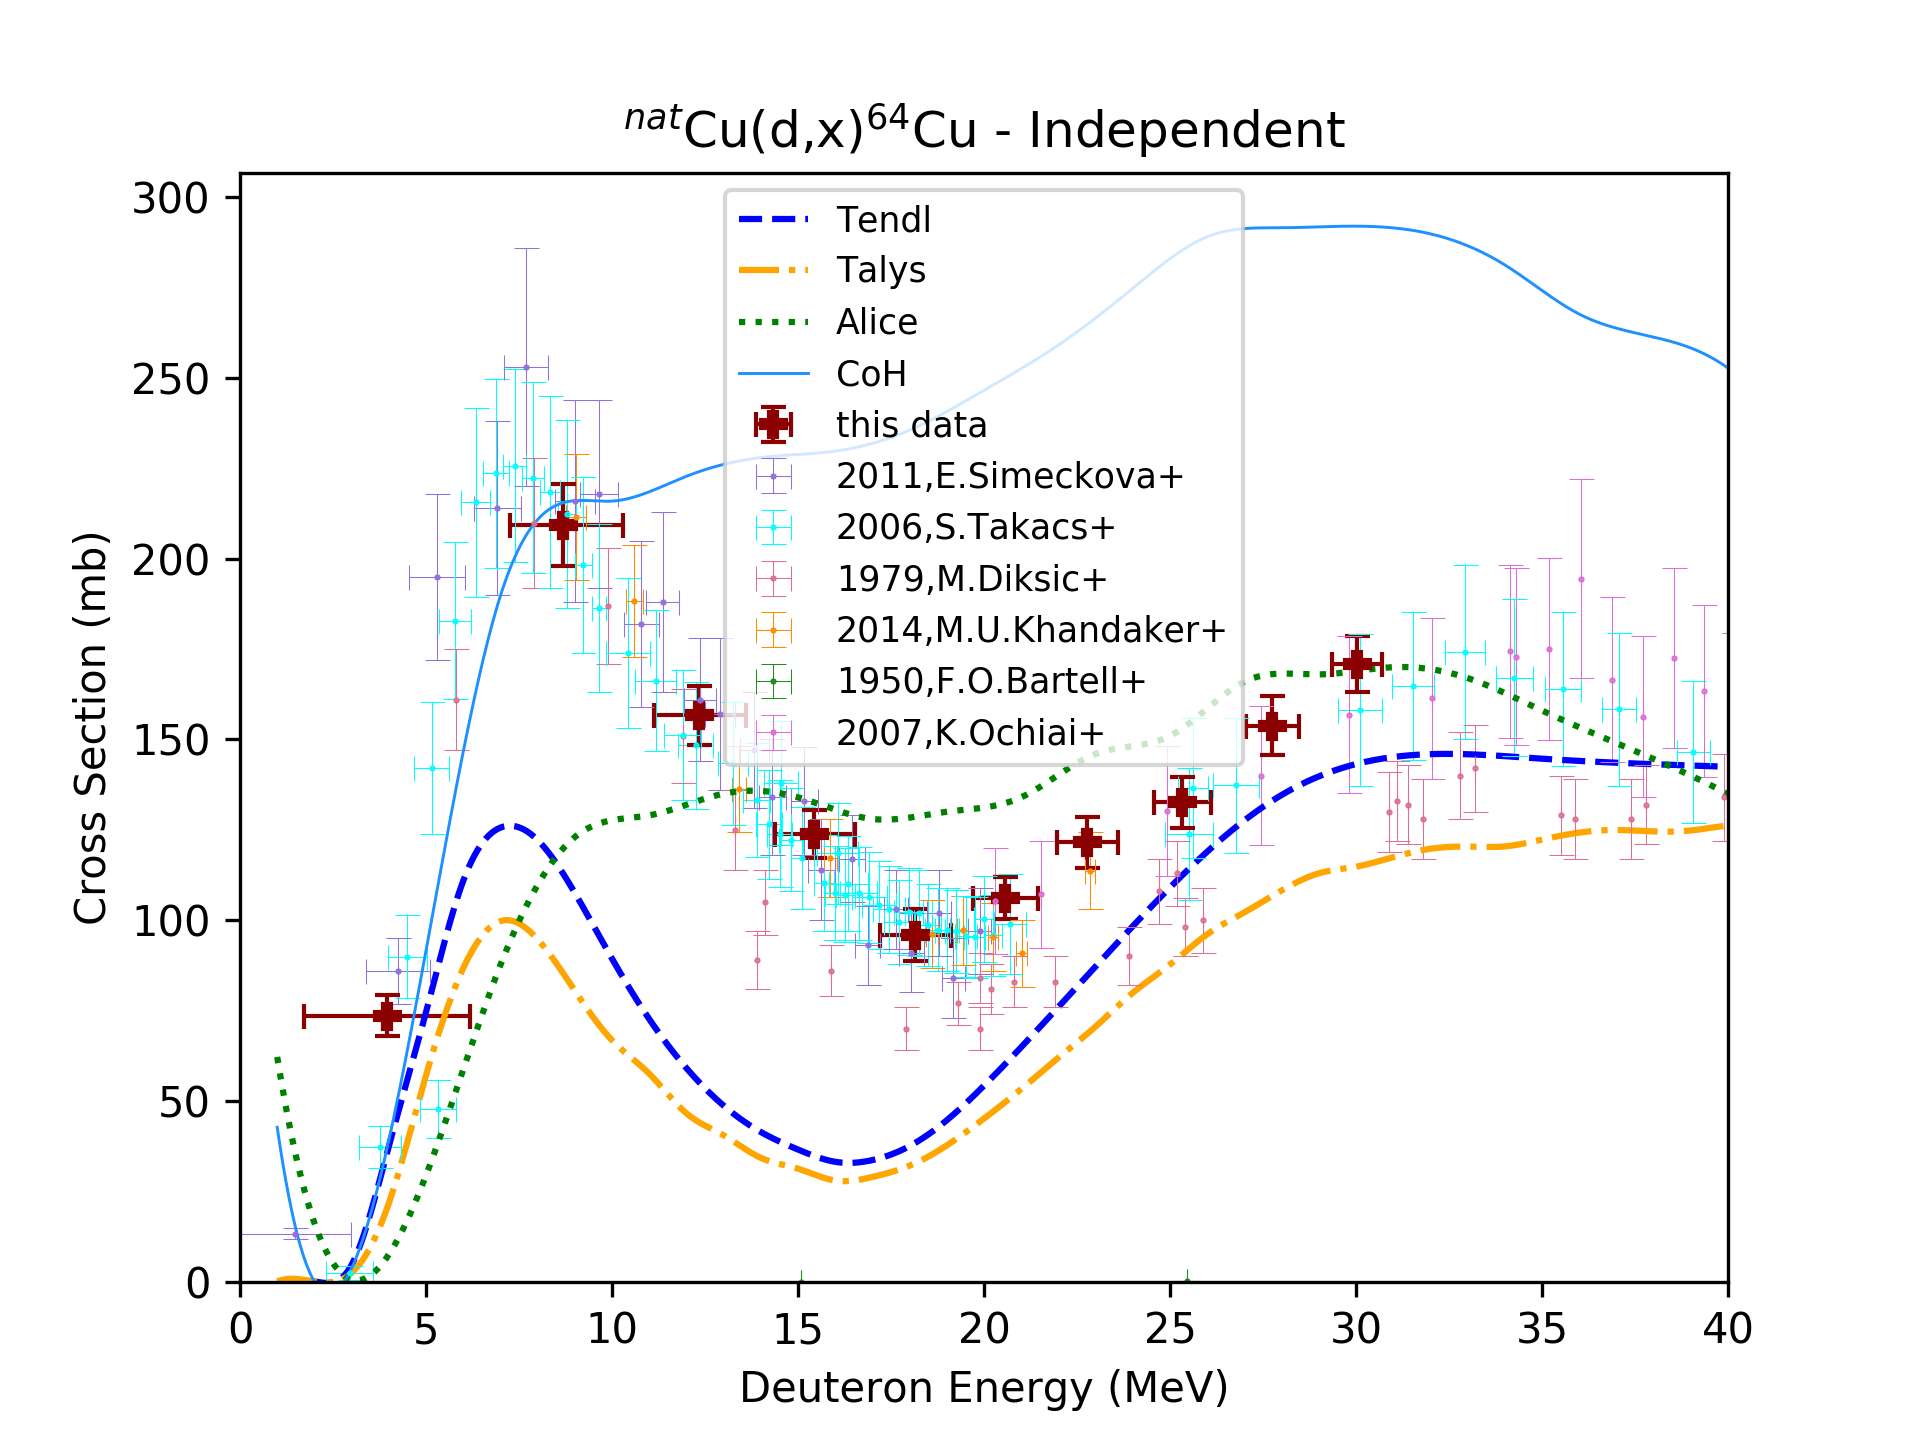
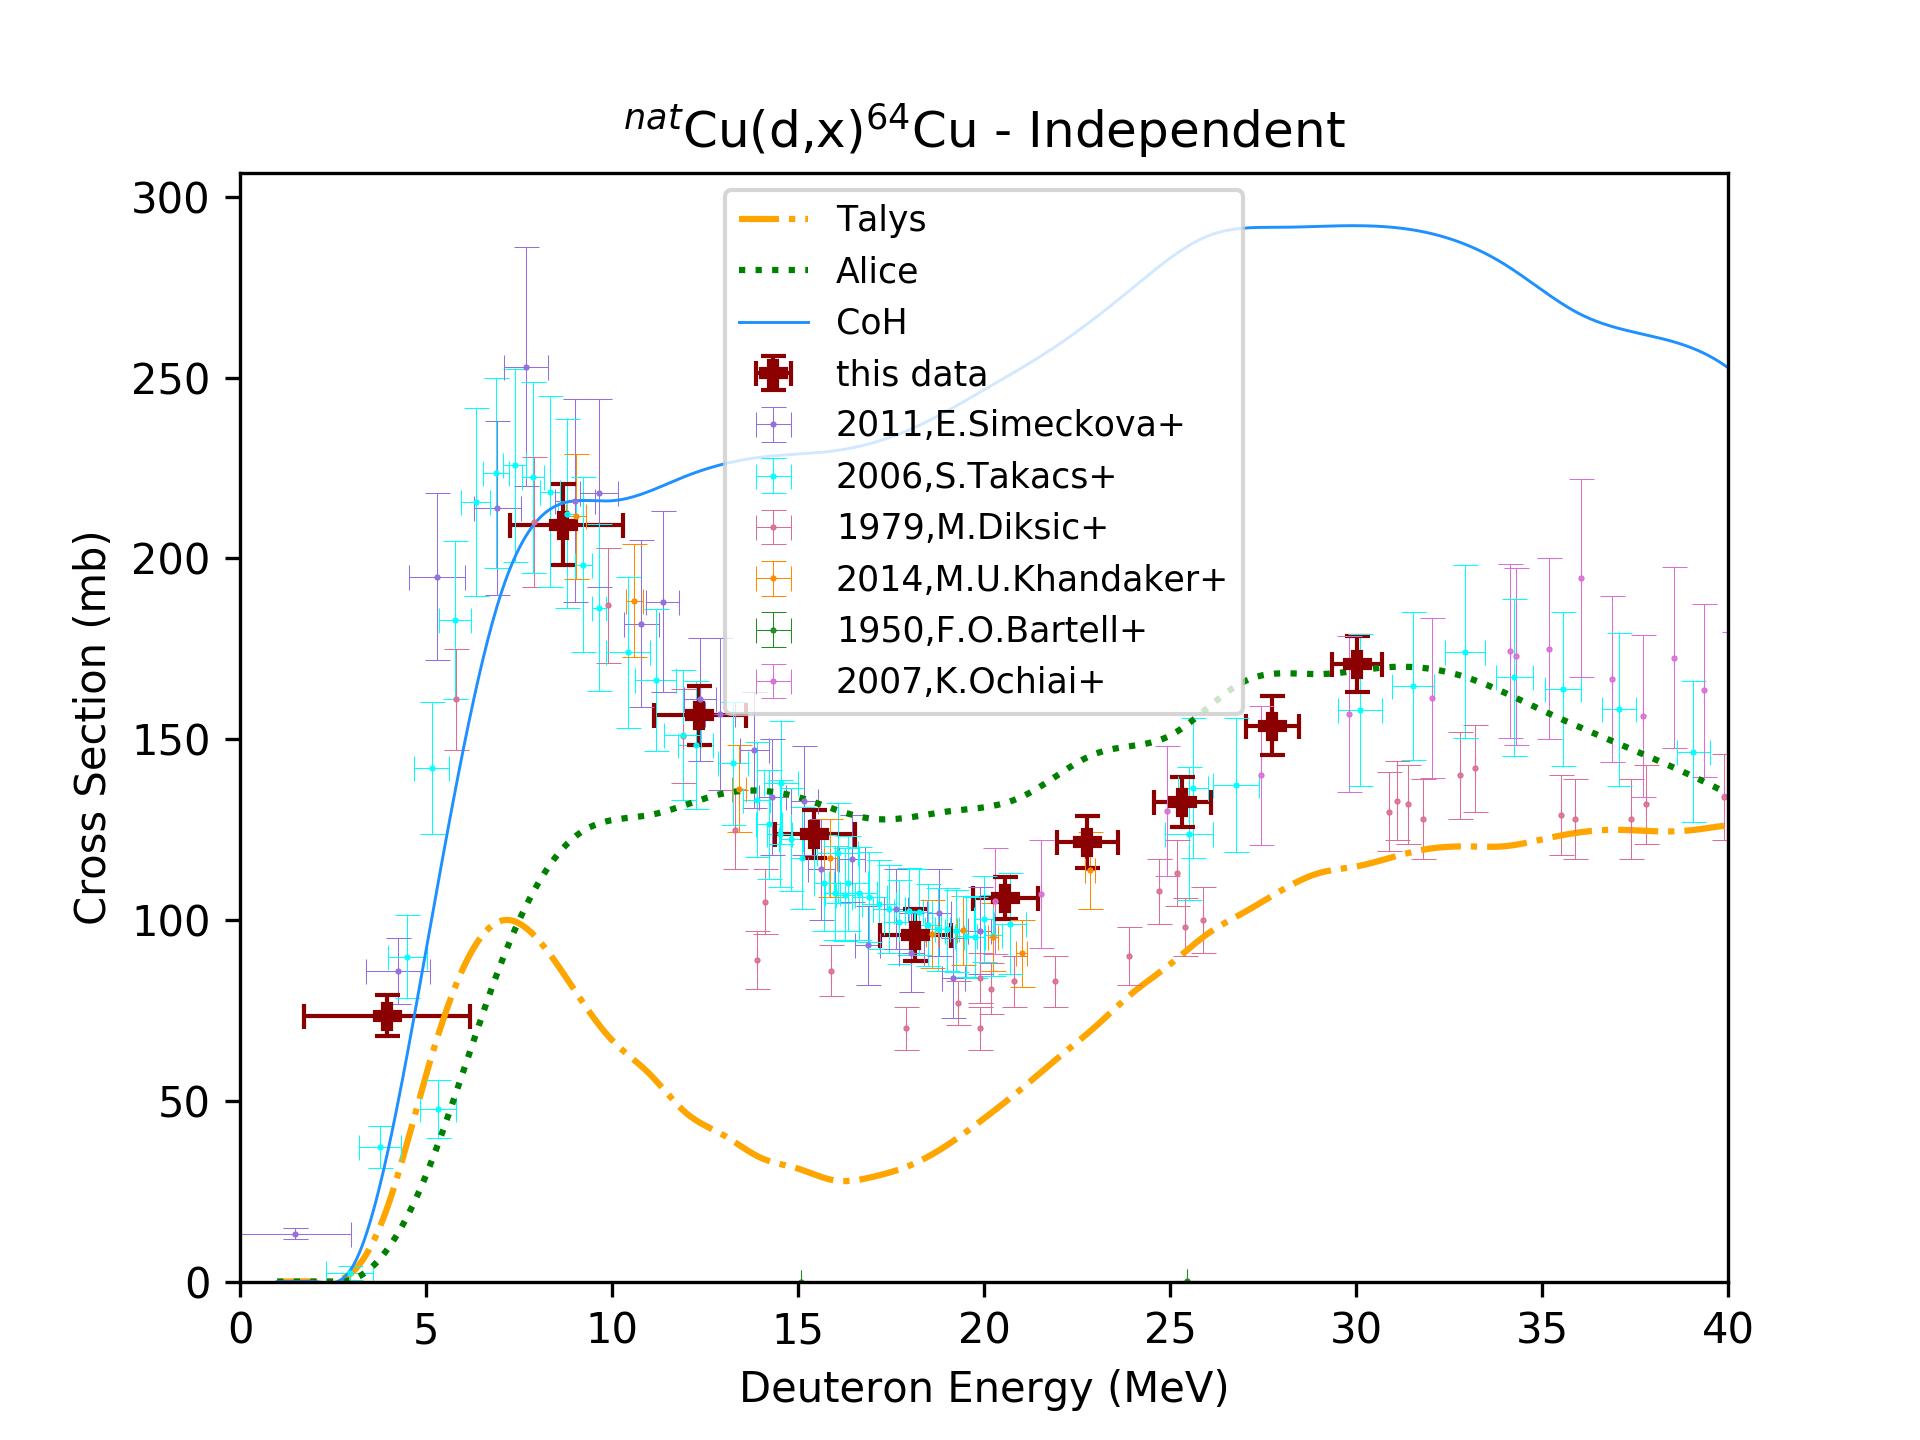
zero padding added in simulated_CrossSectionData.py

diff --git a/Program/new_main.py b/Program/new_main.py
@@ -57,6 +57,7 @@ ziegler_filename = './' + files[index]
 ### Matrices containing all data, which are going into Andrew's function Average_Beamcurrent in weighted_average.py
 ### Ni: 61Cu, 56Co, 58Co, Cu: 62Zn, 63Zn, 65Zn, Fe: 56Co
 #A0, sigma_A0, lambda_, mass_density, sigma_mass_density, reaction_integral, uncertainty_integral, irr_time, sigma_irr_time = BC.reshaping_parameters()
+
 #Making a new csv file. If ran once, the csv can be called like below: WABS_file
 #weighted_average_BC, sigma_weighted_average_BC = Average_BeamCurrent(A0, sigma_A0, mass_density, sigma_mass_density,  lambda_, reaction_integral, uncertainty_integral, irr_time, sigma_irr_time, csv_filename=ziegler_filename, save_csv=True)
 
@@ -88,7 +89,7 @@ CS.mon_CS_test(Cu_65Zn(), 'Cu', 'Cu_65Zn.csv', 10, 'Cu_65Zn', names[index], WABC
 
 ### Ni reactions
 
-#CS.make_CS(Ni_52Mn(), 'Ni', 'Ni_52Mn.csv', 10, 'Ni_52Mn', WABC_file, '25', '52', independent=False, ylimit=10, CS_colonne_ALICE=5, file_ending='.tot', isomer_state='m+g')   # using 1434 keV line 
+#CS.make_CS(Ni_52Mn(), 'Ni', 'Ni_52Mn.csv', 10, 'Ni_52Mn', WABC_file, '25', '52', independent=False, ylimit=10, CS_colonne_ALICE=5, file_ending='.tot', isomer_state=None)   # using 1434 keV line 
 #CS.make_CS(Ni_54Mn(), 'Ni', 'Ni_54Mn.csv', 10, 'Ni_54Mn', WABC_file, '25', '54', ylimit=40, independent=True, CS_colonne_ALICE=5)
 #CS.make_CS(Ni_59Fe(), 'Ni', 'Ni_59Fe.csv', 10, 'Ni_59Fe', WABC_file, '26', '59', independent=False,CS_colonne_ALICE=5, ylimit=1)   # first in decay chain
 #CS.make_CS(Ni_60Cu(), 'Ni', 'Ni_60Cu.csv', 10, 'Ni_60Cu', WABC_file, '29', '60',CS_colonne_ALICE=5, ylimit=75)
@@ -114,7 +115,7 @@ CS.mon_CS_test(Cu_65Zn(), 'Cu', 'Cu_65Zn.csv', 10, 'Cu_65Zn', names[index], WABC
 #CS.make_CS(Cu_60Co(), 'Cu', 'Cu_60Co.csv', 10, 'Cu_60Co', WABC_file, '27', '60', ylimit=25, independent=False, CS_colonne_ALICE=5) # first in decay chain)   
 #CS.make_CS(Cu_61Co(), 'Cu', 'Cu_61Co.csv', 10, 'Cu_61Co', WABC_file, '27', '61', ylimit=4, independent=False,CS_colonne_ALICE=5) # first in decay chain)  
 #CS.make_CS(Cu_61Cu(), 'Cu', 'Cu_61Cu.csv', 10, 'Cu_61Cu', WABC_file, '29', '61', ylimit=110, independent=False, CS_colonne_ALICE=5) # first in decay chain)   
-#CS.make_CS(Cu_64Cu(), 'Cu', 'Cu_64Cu.csv', 10, 'Cu_64Cu', WABC_file, '29', '64',CS_colonne_ALICE=5)
+CS.make_CS(Cu_64Cu(), 'Cu', 'Cu_64Cu.csv', 10, 'Cu_64Cu', WABC_file, '29', '64',CS_colonne_ALICE=5)
 
 ### Fe reactions 
 #CS.make_CS(Fe_48V(), 'Fe', 'Fe_48V.csv', 3, 'Fe_48V', WABC_file, '23', '48', independent=False, file_ending='.tot', ylimit=0.176, CS_colonne_ALICE=5)   
@@ -227,7 +228,7 @@ b = coulomb_barrier(1, 78, 1, 191)
 print("Coulomb barrier: ", b, "MeV")  
 
 """
-
+"""
 def plot_WABC():
 	wabc_before = 'WABC_B_0_D_0.csv'
 	wabc_after1 = 'WABC_B_+2_D_+4,25.csv'
@@ -257,5 +258,6 @@ def plot_WABC():
 	plt.show()
 
 plot_WABC()
+"""
 
 ####

diff --git a/Program/simulated_CrossSectionData.py b/Program/simulated_CrossSectionData.py
@@ -137,11 +137,57 @@ class SimCrossSectionData:
 		"""
 	def interpolation(self, x,y):	
 		#print(x)
+
+		no = []; yes = []
+		for i in range(len(y)):
+			if y[i-1]>y[i]:
+				#print("**")
+				#print(x[i])
+				#print(y[i-1], y[i])
+				yes.append(i)
+			else:
+				#print("@@")
+				#print(y[i-1], y[i])
+				#print(x[i])
+				no.append(i)
+		
+		if no[0]==1:
+			print(y[no[0]])
+			print(y[no[1]])
+
+
+
+		### ZERO PADDING WORKS!!!!
+		if x[0]!=0:
+			zero_padding = np.linspace(0,x[0]-0.5,10)
+			zeros_y = np.zeros((len(zero_padding)))
+			
+
+			x = np.concatenate((zero_padding, x))
+			y = np.concatenate((zeros_y, y))
+
+
+
+
+
+		#if x[0]!=0 and y[0]!=0:
+
 		tck = interpolate.splrep(x, y, s=0)
 		x_new = np.linspace(1, 40, 1000)
+		#x_new = np.linspace(0, 40, 1000)
 		#for i in range(len(x_new)):
 			#y_new = interpolate.splev(x_new[i], tck, der=0)
 		y_new = interpolate.splev(x_new, tck, der=0)
+
+
+		
+
+		#for i in range(len(y_new[:50])):
+		#	if y_new[i-1]> y_new[i]: 
+		#		print("cross section decreases")
+		#	else:
+		#		print("cross section increases")
+			#print(y_new[i], y_new[i-1])
 
 		return x_new, y_new
         
@@ -195,6 +241,7 @@ class SimCrossSectionData:
 		#plt.plot(E_new, CS_new)
 		#plt.show()
 		return E_new, CS_new
+		#return E, CS
 
 	
 
@@ -820,7 +867,17 @@ class SimCrossSectionData:
 			CS = CS_54Fe*abund_54Fe + CS_56Fe*abund_56Fe + CS_57Fe*abund_57Fe + CS_58Fe*abund_58Fe 	
 		
 
+		#if E[0]==1:
+		#	zero_padding = np.linspace(0,1,5)
+		#	cs_zeros = np.zeros(len(zero_padding))
+		#	E = np.concatenate((zero_padding, E))
+		#	CS = np.concatenate((cs_zeros, CS))
+		#print(E)
+
+
 		E, CS = self.interpolation(E, CS)
+		#E = np.concatenate((zero_padding, E))
+		#CS = np.concatenate((zero_padding, CS))
 		#plt.plot(E, CS)
 		#plt.show()
 		return E, CS
@@ -930,9 +987,39 @@ class SimCrossSectionData:
 
 #print(path)
 
+"""
+SimCS = SimCrossSectionData()
+#E, CS = SimCS.COH('Ir', '193', '078', 'Ir_193mPt', isomer='M')
+#E, CS = SimCS.COH('Cu', '064', '029', 'Cu_64Cu', isomer=None)
+E, CS = SimCS.COH('Fe', '054', '025', 'Fe_54Mn', isomer=None)
 
-#SimCS = SimCrossSectionData()
-#SimCS.COH('Ir', '193', '078', 'Ir_193mPt', isomer='M')
+E_al, CS_al = SimCS.ALICE('Fe', '54', '25', CS_colonne=5)
+
+#print(E)
+
+plt.plot(E,CS, label="CoH")
+plt.plot(E_al, CS_al, label="ALICE")
+plt.legend()
+plt.show()
+"""
+
+
+"""
+if E[0]==1:
+	zero_padding = np.linspace(0,1,5)
+	cs_zeros = np.zeros(len(zero_padding))
+	E = np.concatenate((zero_padding, E))
+	CS = np.concatenate((cs_zeros, CS))
+
+plt.plot(E,CS, label="zeropadding")
+plt.legend()
+plt.show()
+"""
+
+
+
+
+
 #SimCS.COH('Ir', '191', '078', 'Ir_191Pt')
 #"SimCS.COH('Ni', '054', '025', 'Ni_54Mn' )
 #SimCS.ALICE('Ni', '56', '27', 5)

diff --git a/Program/des19_BeamCurrent.py b/Program/des19_BeamCurrent.py
@@ -235,8 +235,8 @@ class BeamCurrent:
             int_uncertainty = np.trapz(F[i]*relative_sigma_Cs, E[i])/np.trapz(F[i],E[i])
             uncertainty_integral.append(int_uncertainty)
 
-            int_reaction = np.trapz(F[i]*Cs_, E[i])/np.trapz(F[i],E[i])
-            reaction_integral.append(int_reaction)
+            int_reaction = np.trapz(F[i]*Cs_, E[i])/np.trapz(F[i],E[i])      # Calculation of the reaction integral over each foil. 
+            reaction_integral.append(int_reaction)                           # making lists of each integral
 
         if return_interp_CS:
             #print(tck)
